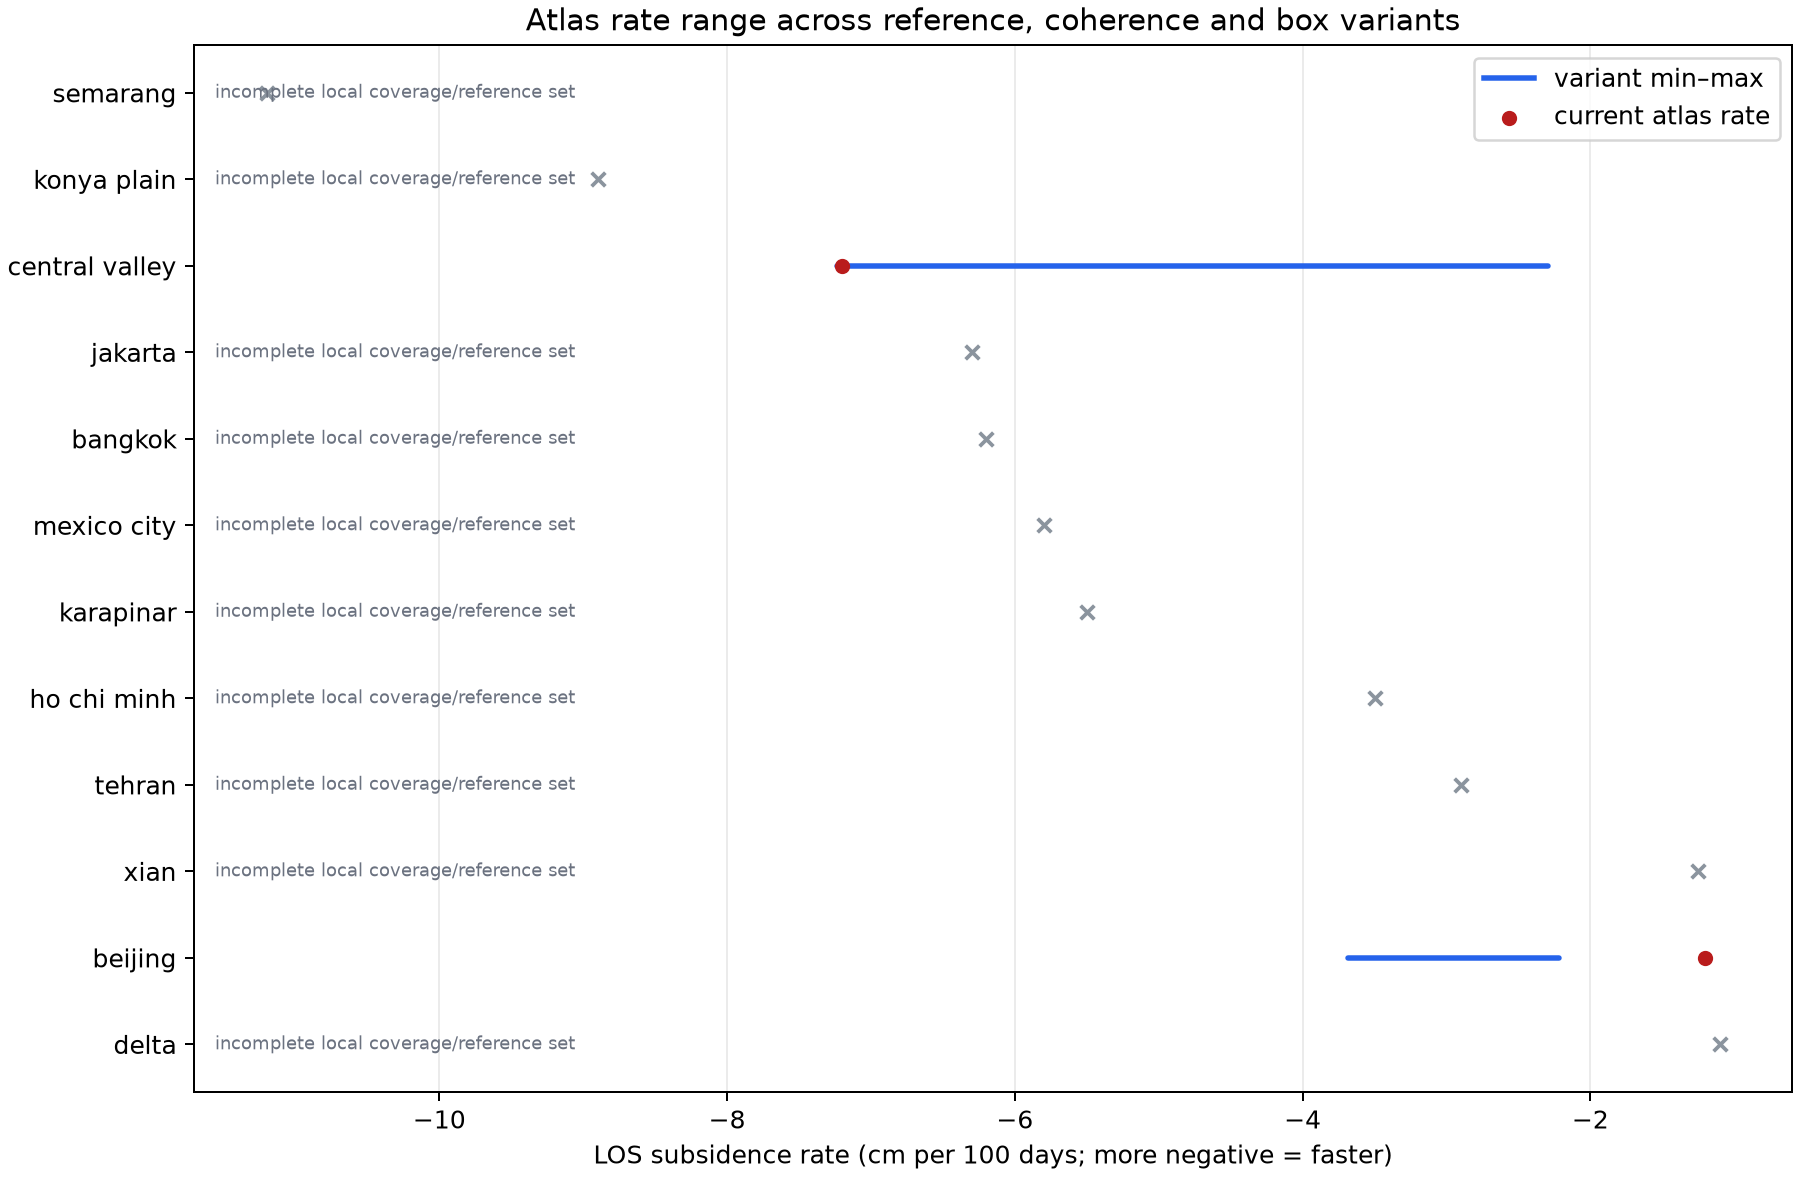
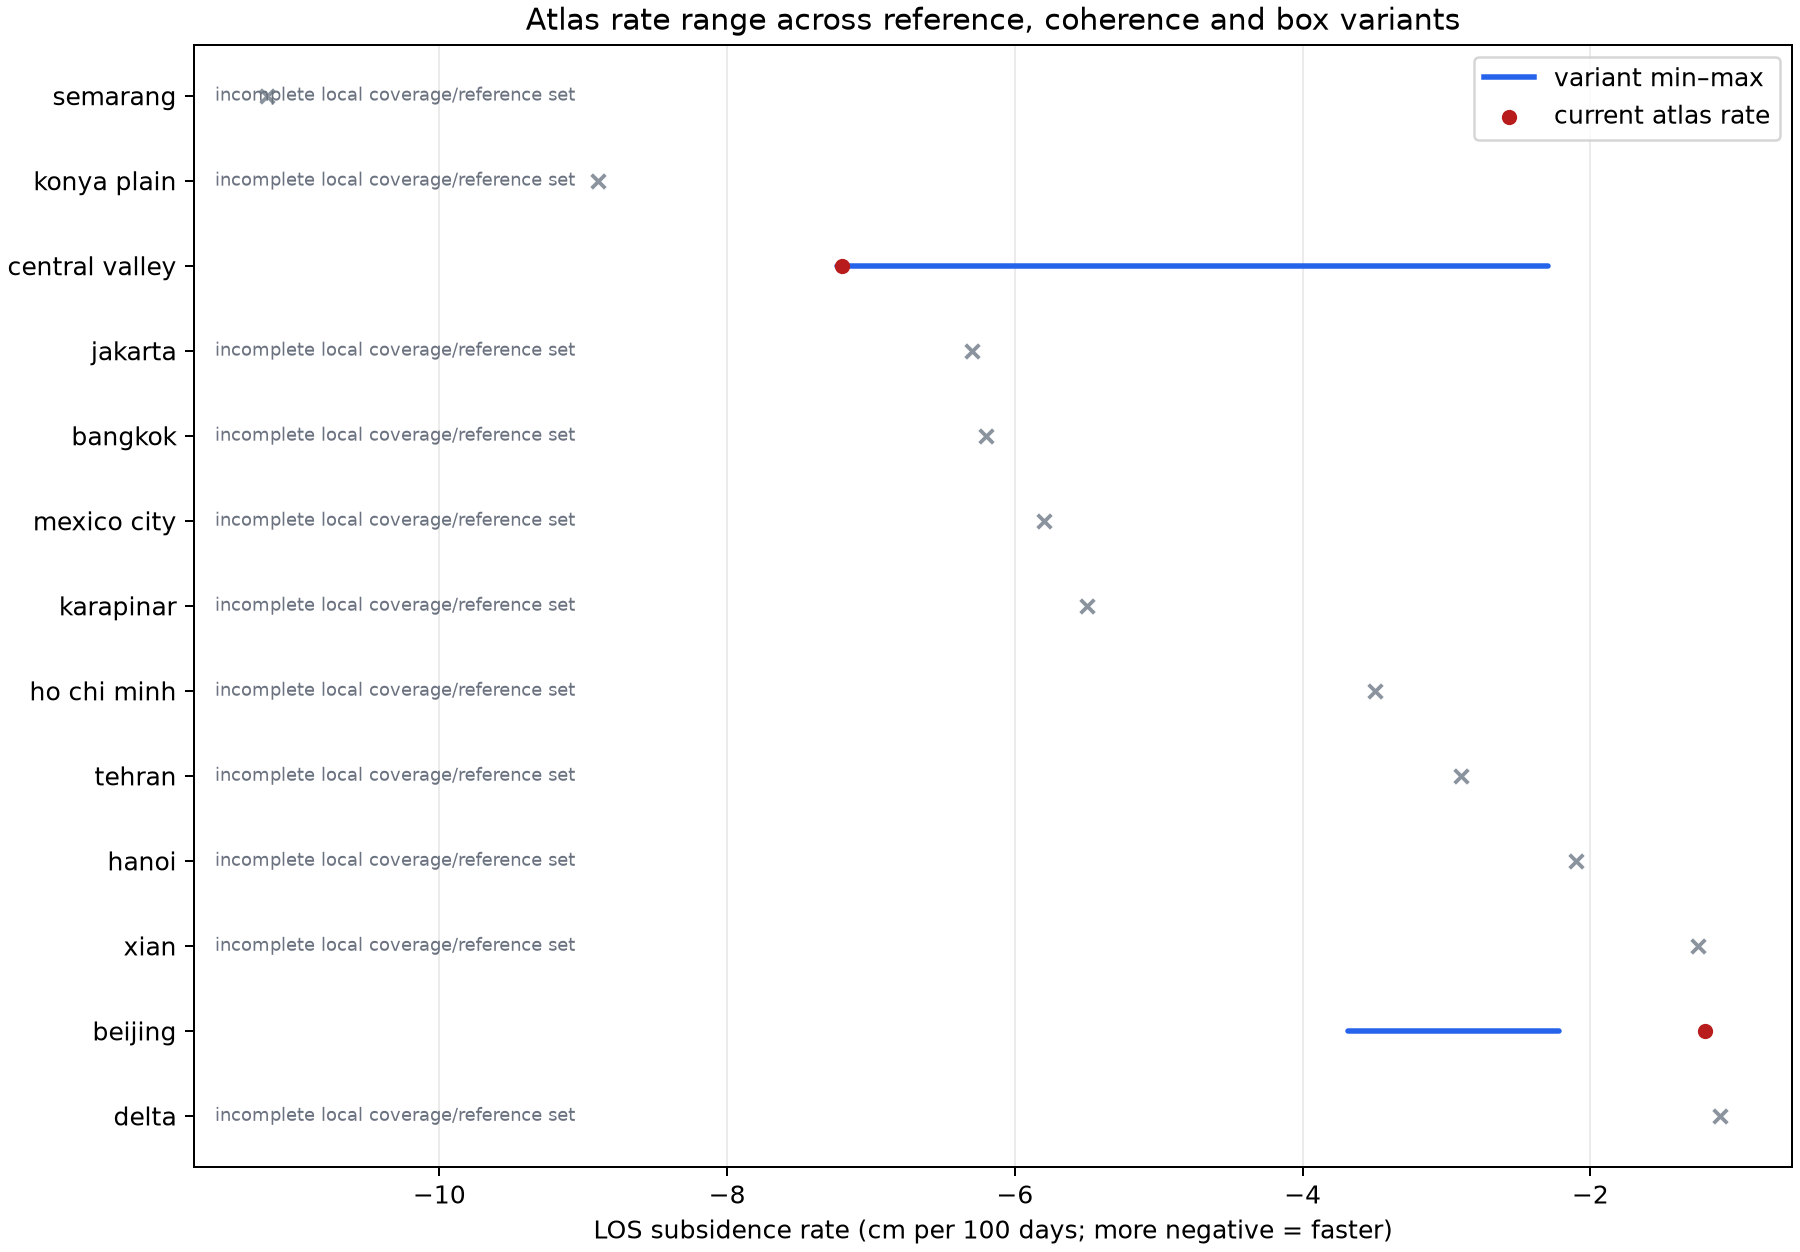
[PC7] report Queretaro reference limit and refresh atlas QA

diff --git a/status/PC7.md b/status/PC7.md
@@ -1,7 +1,7 @@
 # PC7 durum
 
 - Görev: Fens GCOV ritmi, polarizasyon karşılaştırması, çevrimdışı site QA ve Node oyun testi
-- Durum: Xi'an tamamlandı ve push edildi. Taiyuan dry-run 9 provisional çift/0 boşluk verdi; bulunan K001/J004 GPS noktaları havza içi kaynaklı olduğundan Taiyuan üretimi uygun dış referans doğrulanana dek beklemede. Querétaro dry-run 9 çift/0 boşluk verdi; belgeli El Cimatario adayına göre tek ürünlü indirme/kesme işlemi çalışıyor, başka indirme başlatılmadı.
+- Durum: Xi'an tamamlandı/push edildi. Taiyuan, havza dışı kaynaklı sabit referans bulunana dek beklemede. Querétaro 9/9 kesit hazır fakat El Cimatario yakınında 7×7 ortak-valid referans bulunamadığından analiz üretilemedi. Aguascalientes dry-run 9 çift/0 boşluk verdi; kaynaklı Cerro del Muerto koordinatıyla sıradaki adım indirme ve analiz. Son kontroller: robustness 13 şehir (yalnız 1 şehir 27/27; top-3 sırası sonuçsuz), atlas validator 15 region/19 şehir/211 bulgu, JSON validator 142 dosyada parse/NaN 0 ve başka sahibin `data/nisar_tle.json` quality eksiği. Ayrıntı `docs/qa/PC7.md` §24–25.
 - ASF araması: platform=NISAR, processingLevel=GCOV, bbox [-0.3, 52.4, 0.4, 52.9], başlangıç 2026-06-17; 49 P05023 GCOV ürünü HH/HV ile eşleşti.
 - Tekrarlı seri: path 52, frame 61, 10 benzersiz tarih: 2026-06-17–2026-10-15. Granül listesi `pipeline/pc7/fens_gcov_catalog.json` içinde.
 - Doğrulama: `pipeline/pc7/search_fens_gcov.py` çalıştırıldı; katalog JSON olarak tekrar açılıp parse edildi.
